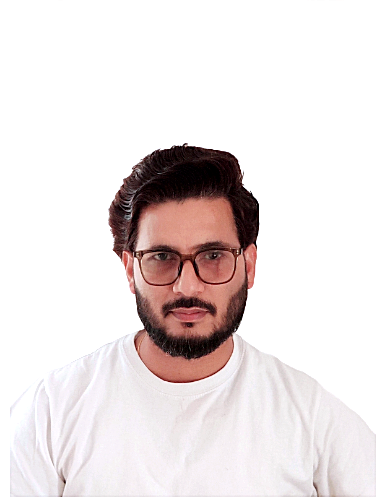
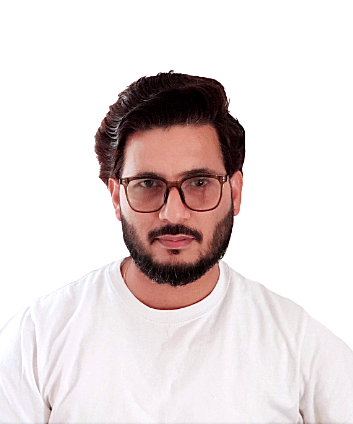
fine tunning

diff --git a/index.html b/index.html
@@ -144,9 +144,10 @@
                             <h1 class="hero__name">Rajendra Sapkota</h1>
                             <h3 class="hero__profession">AI Engineer</h3>
                             <p class="hero__description">
-                                Ph.D. candidate in applied AI involving but not limited to ML/DL, computer vision, and image analysis. Combines research rigor 
-                                with startup delivery: team building, team leadership, client collaboration, and full product 
-                                lifecycle. Currently working on automation workflows with MCP, LLMs, crewAI and n8n.
+                                Ph.D. candidate in applied AI, specializing in machine learning, deep learning, computer vision, image analysis and generative models. I bridge the gap between cutting-edge 
+                                research and commercial viability, with proven experience leading teams, managing the full product lifecycle, and delivering robust AI solutions through client collaboration.
+                                Currently working on intelligent automation by leveraging multi-agent systems (crewAI), LLMs (via MCP), and workflow orchestration (n8n) to solve business challenges.
+                                
                             </p>
                             
                             <!-- Desktop: Info cards in text section -->
@@ -187,7 +188,7 @@
                         <div class="hero__image hero__image--desktop">
                             <div class="hero__image-container">
                                 <div class="hero__image-border">
-                                    <img src="rajan1.jpg" alt="Rajendra Sapkota - AI Research Engineer" class="hero__img" width="700" height="700" decoding="async">
+                                    <img src="rajan4.png" alt="Rajendra Sapkota - AI Research Engineer" class="hero__img" width="500" height="500" decoding="async">
                                 </div>
                                 <div class="hero__image-overlay"></div>
                             </div>
@@ -456,6 +457,9 @@
                         <li>CSS</li>
                         <li>JavaScript</li>
                         <li>PHP</li>
+                        <li>MySQL</li>
+                        <li>PostgreSQL</li>
+                        <li>MongoDB</li>
                     </ul>
                   </div>
 

diff --git a/styles.css b/styles.css
@@ -838,7 +838,7 @@ body:not(.dark-theme) .hero__info-item:hover {
 }
 
 .hero__image-border:hover .hero__img {
-  transform: scale(1.05);
+  transform: scale(0.97);
 }
 
 .hero__image-border:hover {
